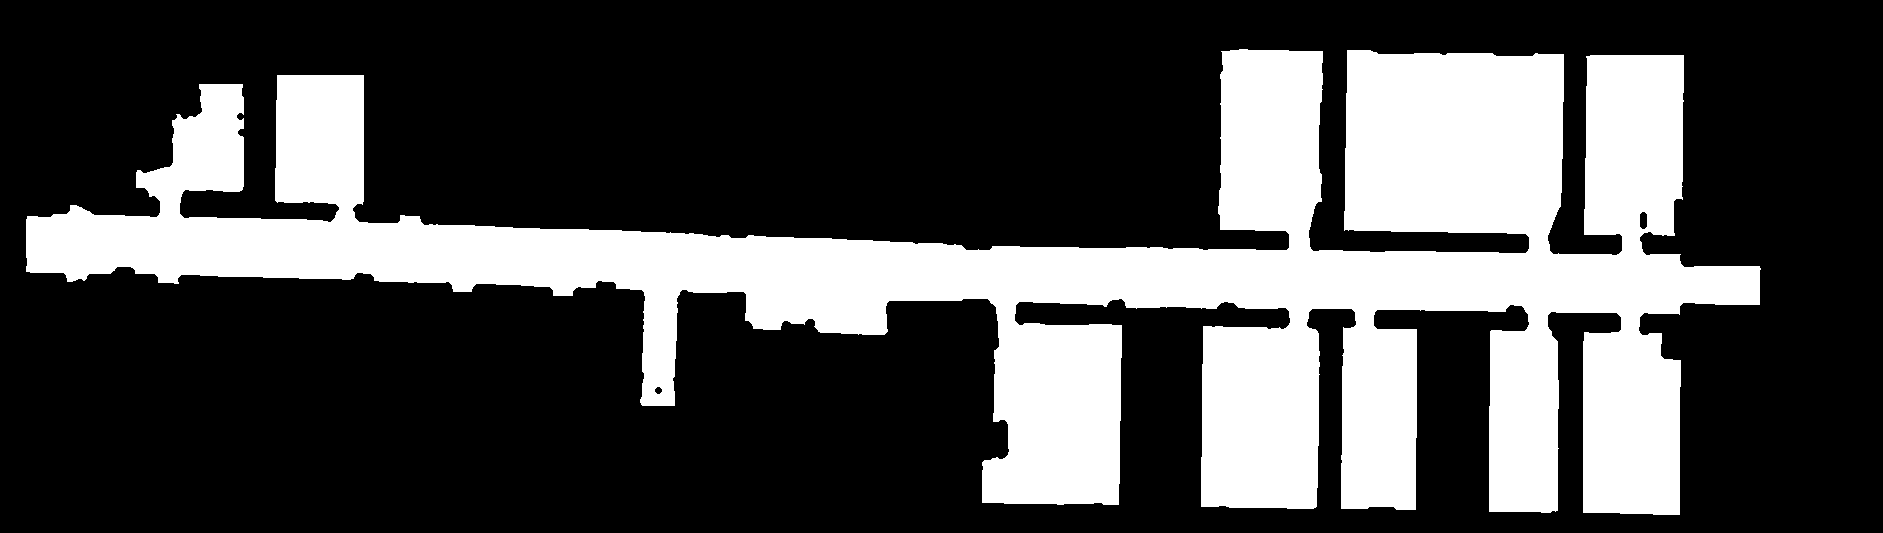
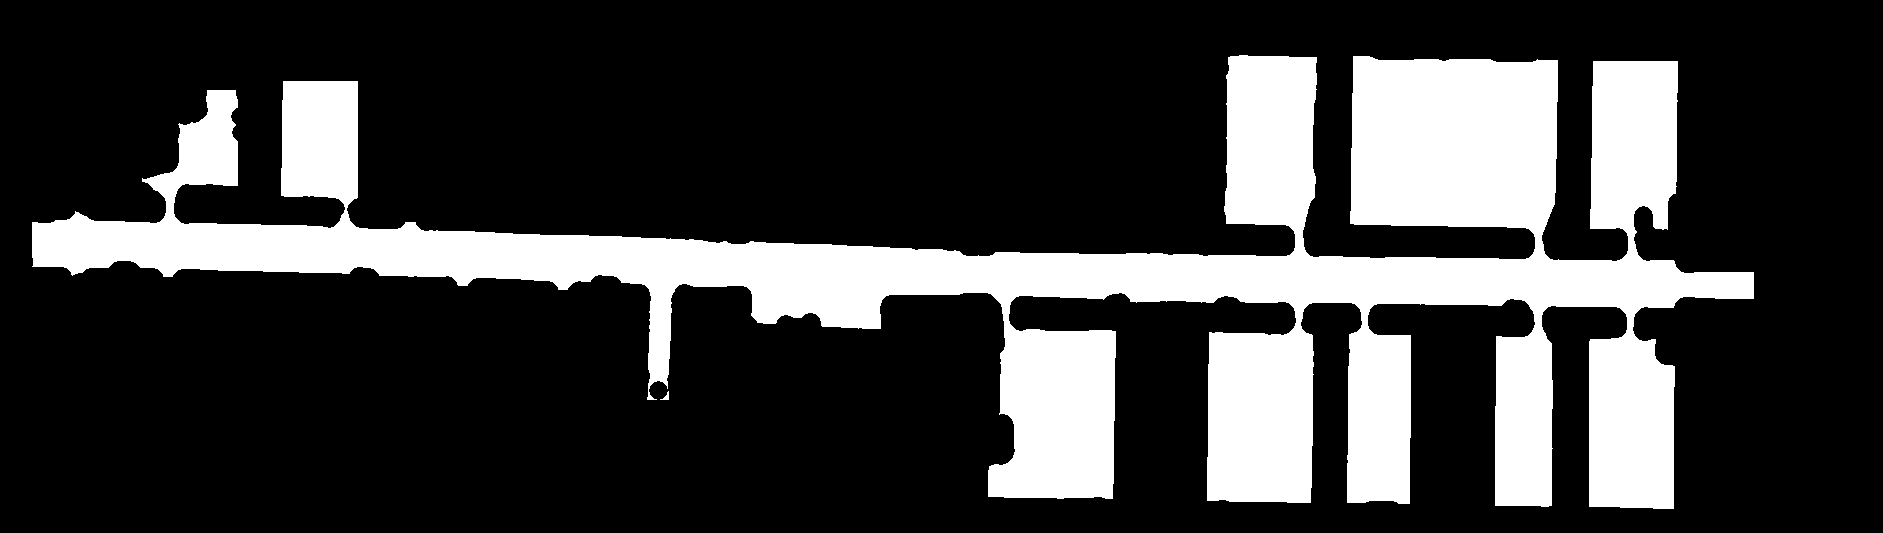
修改了一些Bug

Changed region(s): [[0.3388, 0.5403, 0.8933, 0.9906], [0.0, 0.0901, 0.9549, 0.5704], [0.154, 0.1201, 0.1848, 0.1501]]

diff --git a/QT5_NLP.py b/QT5_NLP.py
@@ -6,7 +6,7 @@ import cv2
 import time
 import random
 from multiprocessing import Process, Queue
-from PyQt5.QtCore import QTimer, QSize, QDateTime, Qt,QThread, pyqtSignal
+from PyQt5.QtCore import QTimer, QSize, QDateTime, Qt, QPoint, QThread, pyqtSignal
 from PyQt5.QtWidgets import *
 from PyQt5.QtGui import *
 from QtCustomComponents.MainWindow import Ui_MainWindow
@@ -60,6 +60,7 @@ class MainWindow(QMainWindow, Ui_MainWindow):
         # 加载人物列表及生成图像
         with open('data/Person.json', 'r', encoding='utf-8') as f:
             self._Person = json.load(f)
+
         for person in self._Person:
             if 'head' in self._Person[person]:
                 h = cv2.imread("ProfilePicture/" + self._Person[person]["head"], cv2.IMREAD_UNCHANGED)
@@ -141,6 +142,13 @@ class MainWindow(QMainWindow, Ui_MainWindow):
         self.__waitForPathPlanning = False
         self.__moveTimer.start(self.__moveSpeed)
 
+        # map事件的用到的一些参数的初始化
+        self.map.start_pos = QPoint()
+        self.map.end_pos = QPoint()
+
+        self.map.mouseDown = False
+        # self.map_view = QGraphicsView(self.map)
+
         # 列表扫描服务
         if dialogue_list is not None:
             self.dialogue_list = dialogue_list
@@ -151,7 +159,8 @@ class MainWindow(QMainWindow, Ui_MainWindow):
     def _Tag_location(self):
         self.window().setCursor(Qt.CrossCursor)
         # self.window().mousePressEvent = self.window()._Tag_action_location_mousePressEvent
-
+        # self.window().map.mouseMoveEvent = self.window()._Tag_action_location_mousePressEvent
+        self.map_view.mouseMoveEvent = self._Tag_action_location_mouseMoveEvent
     def _dialogue_list_deal(self):
         if self.dialogue_list:
             dialogue = self.dialogue_list.pop(0)
@@ -163,8 +172,34 @@ class MainWindow(QMainWindow, Ui_MainWindow):
         """
         位置标注动作触发时的鼠标按压事件
         """
+        if event.button() == Qt.LeftButton:
+            self.window().map.start_pos = event.pos()
+            self.map.mouseDown = True
         # x = event.pos().x()
         # self.window()
+
+    def _Tag_action_location_mouseMoveEvent(self, event: QMouseEvent):
+        """
+        位置标注动作触发时的鼠标移动事件
+        """
+        if event.button() == Qt.LeftButton:
+            if self.window().map.mouseDown:
+                self.window().map.end_pos = event.pos()
+                self.paint()
+
+    def _Tag_action_location_mouseReleaseEvent(self, event: QMouseEvent):
+        """
+        位置标注动作触发时的鼠标释放事件
+        """
+        if self.window().map.mouseDown:
+            self.window().map.end_pos = event.pos()
+            self.self.window().map.mouseDown = False
+
+    def paint(self):
+        """
+        位置标注动作框选时的画框函数
+        """
+
 
     def __dealMessageShow(self, messageW: QNChatMessage, item: QListWidgetItem,
                           text: str, name: str, time: int, usertype: QNChatMessage.User_Type):
@@ -224,7 +259,7 @@ class MainWindow(QMainWindow, Ui_MainWindow):
         t = QDateTime.currentDateTime().toTime_t()
         self.__dealMessageTime(t)
         messageW = QNChatMessage(self.listWidget.parentWidget())
-        userHead = self.CurrentUser['head']
+        userHead = self.CurrentUser['head_QImage']
         messageW.setPixUser(userHead)
         item = QListWidgetItem(self.listWidget)
         self.__dealMessageShow(messageW, item, message, self.CurrentUser['name'], t, QNChatMessage.User_Type.User_She)
@@ -527,18 +562,19 @@ def InstructionPrediction_process(qi: multiprocessing.Queue, qo: multiprocessing
 
 
 def main():
-    # dialogue_list = ['刘老师:大家上午8点15分到1号会议室开会',
-    #                  '兰军:收到',
-    #                  '港晖:老师，我8点15分要去1001教室上课，能不能换个时间？',
-    #                  '刘老师:那我们就换到9点吧',
-    #                  '晨峻:收到',
-    #                  '伟华:收到',
-    #                  '姚峰:收到',
-    #                  '港晖:收到',
-    #                  '小飞:收到',
-    #                  '晨峻:@ Robot从港晖那拿份文件给兰军'
-    #                  ]
     dialogue_list = None
+    dialogue_list = ['刘老师:大家上午8点15分到1号会议室开会',
+                     '兰军:收到',
+                     '港晖:老师，我8点15分要去1001教室上课，能不能换个时间？',
+                     '刘老师:那我们就换到9点吧',
+                     '晨峻:收到',
+                     '兴航:收到',
+                     '姚峰:收到',
+                     '港晖:收到',
+                     '小飞:收到',
+                     '晨峻:@ Robot从港晖那拿份文件给兰军'
+                     ]
+
     # 指令解析服务的进程通信队列
     InstructionPrediction_InQueue, InstructionPrediction_OutQueue = multiprocessing.Queue(), multiprocessing.Queue()
 

diff --git a/QtCustomComponents/qnchatmessage.py b/QtCustomComponents/qnchatmessage.py
@@ -2,7 +2,7 @@ import math
 import time
 from enum import Enum
 from PyQt5.QtCore import QDateTime, Qt, QRect, QSize, QPointF, QRectF
-from PyQt5.QtGui import QFontMetrics, QPixmap, QPaintEvent, QPainter, QMovie, QBrush, QColor, QPen, QTextOption
+from PyQt5.QtGui import QFontMetrics, QPixmap, QImage, QPainter, QMovie, QBrush, QColor, QPen, QTextOption
 from PyQt5.QtWidgets import QLabel
 from PyQt5.QtWidgets import *
 import PyQt5.QtWidgets
@@ -55,8 +55,8 @@ class QNChatMessage(QWidget):
         self.m_lineHeight = 0
         self.usrname = " "
 
-    def setPixUser(self, ProfilePicturePath):
-        self.m_leftPixmap = QPixmap.fromImage(ProfilePicturePath)
+    def setPixUser(self, qImage:QImage):
+        self.m_leftPixmap = QPixmap.fromImage(qImage)
 
     def setTextSuccess(self):
         self.m_loading.hide()

diff --git a/PathPlanningAstar/water_api.py b/PathPlanningAstar/water_api.py
@@ -119,7 +119,7 @@ def map_track_middle(map_path: str) -> None:
             if map_binary[x, y] == 0:
                 map_binary[x, y] = 0
     contours, hierarchy = cv2.findContours(map_binary, cv2.RETR_LIST, cv2.CHAIN_APPROX_SIMPLE)
-    cv2.drawContours(map_connectedcomponents, contours, -1, 0, 1)
+    cv2.drawContours(map_connectedcomponents, contours, -1, 0, 12)
     map_name = map_path.split('.')
     cv2.imwrite('middle' + '.png', map_connectedcomponents)
 # 类定义
